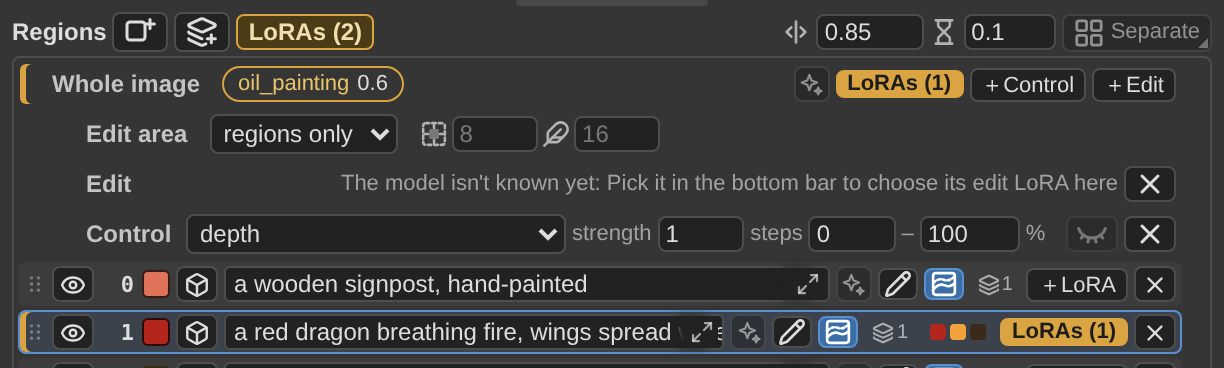
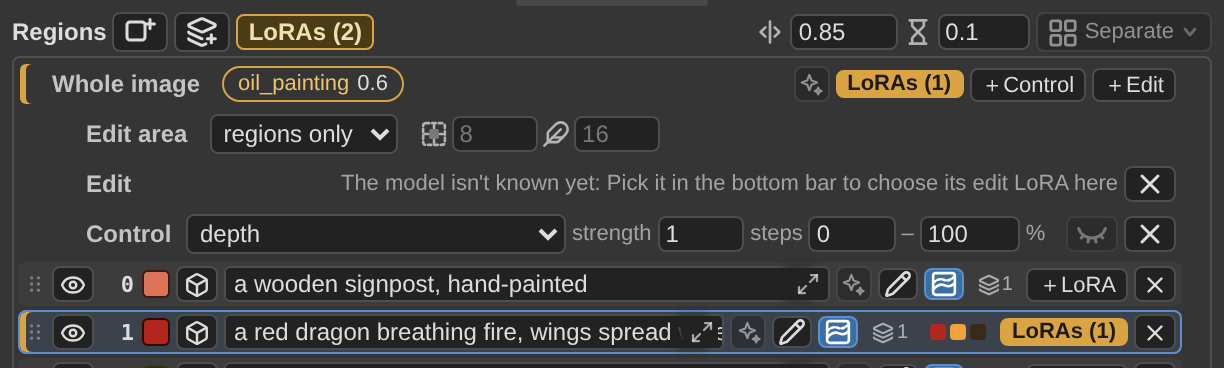
Rounds 99-100: translations, manual, changelog, handoff, hardware checklist, pictures, CLAUDE.md's kept words; version 0.60.0
The full checks for this commit are still running.

Claude-Session: https://claude.ai/code/session_01B5U1gpBZHxaHUVoHyaNrX1

Changed region(s): [[0.7141, 0.0299, 0.9935, 0.1495], [0.6209, 0.0299, 0.7141, 0.1495]]

diff --git a/docs/region-genie.md b/docs/region-genie.md
@@ -59,13 +59,17 @@ New here? The [quick start](../README.md#-quick-start) in the README gets a firs
   - `scene_prompt_positive` and `scene_prompt_negative` are the prompts; `positive`, `negative`, `latent` and `model` go to the sampler as always.
   - The size row sets the image size, and the **＋LoRA** button on *Whole image* adds LoRAs for the whole picture.
   - `prompt` is then your scene prompt as plain text (Ideogram 4: its caption JSON with no elements). Hiding every region (the eye buttons) does the same without deleting anything.
-- **An empty canvas** shows two cards. They hide while the pointer is on the canvas.
-  - **Start here: with regions** has three steps: pick a shape and drag a box (your first region), type its prompt (in the list, or double-click the middle of the region), connect and run.
+- **A canvas without regions** shows two cards, every time it has none. They hide while the pointer is on the canvas.
+  - **Start here: with regions** has three steps: drag a box (your first region; the Rectangle tool is already the active one), type its prompt (in the list, or double-click the middle of the region), connect and run. Three small lines under them name the ▢＋ button, the Large editor and the Separate button.
+  - **Arrows at the canvas's edge** point at the buttons the card names: *Shapes* and *Large editor* above the canvas, *Add a region* and *Separate* below it (in the large editor, beside it).
+  - While the cards show, the line of hints along the bottom edge is hidden.
+  - **Settings > Region Genie > Canvas tools > Start card on an empty canvas** turns the cards and their arrows off.
+- **The first tool:** a node without regions starts with the Rectangle tool, a node with regions with Select. Once you have picked a tool yourself on a node, it no longer changes by itself.
   - **Or without regions** says how to use the node for plain text-to-image: the two scene prompts, and LoRAs on *Whole image*.
 - **The line along the canvas's bottom edge** shows the keys and gestures of the tool in use (for the Rectangle: drag, Shift for equal sides, Alt from the centre).
   - It fades while the pointer is on the canvas (so it never covers what you work on), comes back when the pointer leaves, and shows for a few seconds when you switch tools.
   - The small **?** button in the canvas's lower right corner hides or shows the hints with one click (the same switch as in Settings).
-  - **Settings > Region Genie > Canvas tools > Hints on the canvas** turns it and the first steps off.
+  - **Settings > Region Genie > Canvas tools > Hints on the canvas** turns it off (the start cards have their own switch).
 - **Tooltips:** point at any button, field or switch for what it does. A shortcut is shown as a key next to the text.
 - **In-app help:** select the node and press **Node Info** in ComfyUI's toolbar (or the Info tab of the side panel) for a short guide with a numbered picture of the node. Every node of the pack has one.
 - **Small buttons are easier to hit:** a click just above, below or beside a small button, a row's grip still counts (the area is at least 24 px tall).
@@ -98,7 +102,7 @@ New here? The [quick start](../README.md#-quick-start) in the README gets a firs
   - In legacy node mode that is about 1186 px, with the sockets a new node shows.
   - In Nodes 2.0 ComfyUI shares the height between the scene prompt boxes and the editor, so the canvas starts wider than tall there.
   - Drag the node's corner to resize it, or use the large editor (the bar between the canvas and the list is described below).
-- **The large editor** (the button with two arrows, right of the labels button in the tool bar; or **Alt+Enter** while the pointer is over the editor): the same editor in a window that fills the ComfyUI page.
+- **The large editor** (the **Large** button near the right end of the tool bar, left of Clear all; or **Alt+Enter** while the pointer is over the editor): the same editor in a window that fills the ComfyUI page.
   - The tools stay in their row above the canvas, which takes the left; on the right are the size row, the scene prompts, the region list (with room for many regions) and the bottom bar.
   - It is the node's own editor moved there, so every tool, pop-up, shortcut and Ctrl+Z works as on the node, and nothing has to be saved or applied.
   - Close it with the button again, **✕**, the key, or **Esc** with nothing selected: the editor is back in the node as you left it.
@@ -470,7 +474,9 @@ The tools are the icons in the bar above the canvas. Point at one for its name a
 
 - **Snap** (the magnet button, highlighted when on; slashed magnet when off; or G) snaps drawing, moving and resizing to a grid set in image pixels. Arrow keys nudge (Shift ×10).
   - The grid's lines are drawn while snap is on.
-  - The magnet's ▾ (or a right-click on it) has the rest: **Show the grid without snapping** (Shift+G) and **Grid lines** (Faint, Normal, Strong; for every node).
+  - The magnet's ▾ (or a right-click on it) has the rest:
+    - **Grid size** in image pixels: a field (the grid on the canvas follows as you type; Enter closes the menu) and the sizes 8, 16, 32, 64 and 128 to click. The button's tooltip says the size in use.
+    - **Show the grid without snapping** (Shift+G) and **Grid lines** (Faint, Normal, Strong; for every node).
 - **View:** the image sits in a checkered margin.
   - Shapes can hang off the edge, and only the part inside the image is output.
   - The mouse wheel zooms, middle-drag or Space+drag pans, Fit (Home) resets the view, and Alt+wheel or `[` `]` changes brush size.
@@ -588,6 +594,7 @@ The details:
 ## Undo and redo
 
 - **Undo and redo:** Ctrl+Z and Ctrl+Shift+Z / Ctrl+Y work on the editor, not on the ComfyUI graph, while you're using the editor.
+- **The Undo and Redo buttons say what a click would change,** in their tooltips: "Undo: The prompt of region 2", "Undo: Moving layer "Rectangle 5" in front of or behind others", "Redo: Hiding region 1". A region is called by its number in the list, a layer by its name; a step that changed several things names two and adds "and more".
 - **Text is part of Undo.** Every visit to a text box (click in, type, click out) is one step of the editor's Undo, in order with drawing and everything else.
   - This covers the scene prompts, a region's prompt and its text to render, on the node, in the large editor and in the pop-up editors.
   - So after typing a prompt, clicking out and drawing a shape, Undo takes back the shape and then the whole prompt edit.

diff --git a/docs/CHANGELOG.md b/docs/CHANGELOG.md
@@ -2,12 +2,25 @@
 
 Each round is one request from the owner: what was asked, what was decided (and by whom), what was built and how it was tested. Later rounds sometimes reverse earlier ones; `docs/HANDOFF.md` section 4 has the current design. Test file names are the current ones (renamed by subject in round 24; e.g. `real_comfy12.cjs` is now `real_fields_popups.cjs`).
 
-## Round 98 (Nov 26): Image Compare, Large view: the size can be typed (0.59.1)
+## Round 100 (Nov 27): the start card on every empty canvas, with arrows; the Rectangle tool first; Separate's ▾; Undo / Redo say what they change (0.60.0)
+- Asked: a note about Separate on the start card (the shorter wording, then widened to "or not blending enough"); arrows at the canvas's edge to the buttons the card names, with the hint strip hidden meanwhile; the Rectangle tool as the first tool while there are no regions, unless the user picked one; the card whenever there are no regions, with a Setting; a ▾ on the Separate button for what its right-click opens; the Undo / Redo tooltips saying what a click would change, specifically, worded "Undo: …" / "Redo: …".
+- Found: the card already came back on an empty canvas, but only with "Hints on the canvas" on and with no layers left.
+- Built: `placeArrows` (each arrow on the edge nearest its button, clear of the canvas's corner buttons); Setting `startCard`; `setTool(t, auto)` and `E.toolPicked`; `sepMenu` behind the ▾; `stepDiff` / `stepWhat` in `regions.js` (the steps are unnamed snapshots: the words come from comparing two).
+- Not as asked: the card's line about the Large editor is not clickable (the card fades while the pointer is on the canvas, so a link in it can't be reached).
+- Tests changed: `ui_hints_notes.cjs` (no Select hints on an empty canvas; the card no longer goes with the hints Setting; two icons on Separate), `ui_settings_window.cjs` (8 rows on Canvas tools), `ui_review_items.cjs` (the Undo tooltip's new form).
+
+## Round 99 (Nov 27): the grid's size in the Snap menu; the Large button; Loop (0.60.0)
+- Asked: move the grid size field into the Snap button's menu (with common sizes; the size in the tooltip only); make the Large editor easier to find (the word "Large" on its button, right of the gap and left of Clear all; a line on the start card); Snap and Large as dark as the other buttons while off; the separator midway between Large and Clear all; Fit as tall as the other buttons; Image Compare's "Around the corner" renamed "Loop".
+- Built: a `custom` row kind in `rg_menu.js` (any element in the pack's menu; keys typed in a field of it stay the field's); `.rg-btn.toggle.solid`; `.rg-bar > .rg-btn { align-self:stretch }`.
+- Tests changed: `ui_region_opacity.cjs` (the grid menu starts with "Grid size"), `real_fields_popups.cjs` (4 number fields on a new node, was 5).
+- The version is 0.60.0 for rounds 97 to 100 (0.59.1 was never released).
+
+## Round 98 (Nov 26): Image Compare, Large view: the size can be typed (0.60.0)
 - Asked: control the zoom by the percentage the Large view shows; on the node it can be left out.
 - Built: the readout is a field: type a percent of the picture's own pixels and press Enter; the zoom is about the middle of the frame, and less than fitting gives the fit. Not on the node (it has no zoom of its own).
 - `real_smoke.cjs` (legacy) timed out a fourth time, now past 10 minutes, so "a slow model load" was the wrong diagnosis. Found: it only fails when the stand-in model file (1.75 GB) has dropped out of the machine's disk cache (106 s to load, then the first selection stalls); with the file cached the load takes 2 s and the whole check 40 s. `verify.py` now reads the file once before the checks that load it. The test's limit is back at 4 minutes.
 
-## Round 97 (Nov 26): the Whole image row's pop-up opens by its row (0.59.1)
+## Round 97 (Nov 26): the Whole image row's pop-up opens by its row (0.60.0)
 - Reported by the owner: the pop-up that the Whole image row's LoRAs button opens appeared near the top, above the canvas, not just above or below the row.
 - Found: that pop-up is the scene prompt's (on its LoRAs tab), and it was always placed by the scene prompt's text box, which is above the canvas. Reproduced in the real ComfyUI before the fix.
 - Fixed: opened from the row (the LoRAs button, a LoRA chip), it goes just below the row, or just above it when there is no room below, as a region's pop-up does with its row. Opened from the scene text box's own button it is by the text box as before.

diff --git a/CLAUDE.md b/CLAUDE.md
@@ -20,7 +20,7 @@ Read `docs/HANDOFF.md` before larger changes: it explains the code layout, the d
   - Say in the report what was left for after the confirmation. When it isn't clear whether a change is settled, ask the owner how they want to proceed.
 - Must work in ComfyUI's legacy node mode **and** Nodes 2.0, on a 4K high-DPR display.
 - Breaking saved workflows is acceptable, but keep them loading where it's cheap: `keepWidgetValuesByName`, add new inputs after existing ones, remap outputs by name, convert old data.
-- UI: compact header controls; icons with tooltips over words, except these words the owner kept: "▼ LoRAs", "▼ All", "Separate" (the keep-separate button), and every "LoRA"/"＋LoRA" label ("separation" and "until" became icons in round 48). Reuse existing icons; a button is never labelled with a character (✕, ↑ …): take a general-purpose icon from Lucide into `LUCIDE`, draw a pack-specific one into `ICONS`.
+- UI: compact header controls; icons with tooltips over words, except these words the owner kept: "▼ LoRAs", "▼ All", "Separate" (the keep-separate button), "Large" (the Large editor's button, round 99), "Fit", and every "LoRA"/"＋LoRA" label ("separation" and "until" became icons in round 48). Reuse existing icons; a button is never labelled with a character (✕, ↑ …): take a general-purpose icon from Lucide into `LUCIDE`, draw a pack-specific one into `ICONS`.
 - Scroll bars (a guideline, not a law): avoid them where it can be done, above all in small pop-ups and menus. Never a horizontal one where it can be helped (most mice can't scroll sideways). A vertical one can be right in some places: when a design decision would go one way or the other because of a scroll bar, ask the owner.
 - Colors: the pack's highlight color and its "switched on" color are the user's (Settings; `--rg-accent`, `--rg-on` and their shades, `applyPackColors()` in `js/rg_shared.js`): a style sheet takes them from the variables, never as a fixed blue or amber, and what is drawn on a canvas asks `accentColor()`.
 - Tooltips (node inputs / outputs, Settings, every editor control; set them the plain way, `el.title = "…"`): concise but complete. A shortcut is written in brackets at the end of its sentence with its default key, `(Ctrl+Z)`, `(V)`: the pack's tooltip shows it as a key, and `E.keyTitle(el, text)` / `keyed(text)` put the user's own key there. Every shortcut is a command in `COMMANDS` (`js/rg_keys.js`): the key handler asks `keyIs(e, id)`, never compares a key itself; hints and messages take the key from `keyText(id)`. Another node's keys are commands in the same list, with a `ctx` and a `group` of their own (Image Compare: `compare`, "Image Compare node"): the sheet shows the pack's shortcuts in one place, a section per node, and a key is only taken from a command of the same `ctx`, so two nodes may use the same key. Such keys act only while the pointer is over their node. A key that can't be changed (a mouse gesture, Image Compare's 1 to 9) is a row in `FIXED`. A tooltip that explains several things (options, states, outputs) puts each on its own line (`name: Description.`). Every sentence starts with a capital letter, also after a ":", unless its first word is a lowercase field / option name (`sidecar .json: The workflow …`). `tests/tooltip_rules.cjs` has the rules; `tests/real_tooltips.cjs [vue]` checks every tooltip.

diff --git a/docs/HANDOFF.md b/docs/HANDOFF.md
@@ -401,6 +401,13 @@ The owner's choices on the six items left from the round-33 review (see the chan
 
 ## 6. How it was tested (for the next session)
 
+**Rounds 99-100:**
+- Toolbar: the grid's size is in the Snap button's menu (`gridMenu` in `toolbar.js`; `rg_menu.js` takes `{ custom: element }` rows); the Large editor's button says "Large" and sits between the gap and Clear all (`E.barEndSep`); `.solid` toggles are not dimmed while off.
+- Start card (`canvasUi.js`): shown whenever there are no regions and Setting `startCard` is on (no longer tied to `toolHints`); `placeArrows()` puts one arrow per named button on the canvas edge nearest it, clear of `.rg-imgmode` / `.rg-tips-btn`; the hint strip is hidden while the card shows. The card takes no clicks and fades under the pointer, so nothing in it can be a link.
+- First tool: `setTool(t, auto)`; a call without `auto` sets `E.toolPicked`. `load()` picks the Rectangle tool for a state without regions, Select otherwise, unless `E.toolPicked`.
+- Undo / Redo tooltips: `E.stepWhat()` (cached by stack lengths, `E.version`, `E.textDirty`) compares the top snapshot with the current state (`stepDiff(a, b, now)`); `render.js` sets the titles. A new kind of state needs a line in `stepDiff`, else it reads "A change to the node".
+- The Separate button's ▾: a click on `.rg-grp-dd` is caught in the capture phase and opens `sepMenu`.
+
 **Round 97:** `editScene(which, at, tab, fromRow)`: opened from the Whole image row (`openSceneLoras` in `llm.js`) the pop-up is placed by `.rg-row.scene`, else by the scene text box (in the large editor: left of its scene box). `tests/real_scene_popup_place.cjs`.
 
 **Round 93:**

diff --git a/docs/HARDWARE-CHECKLIST.md b/docs/HARDWARE-CHECKLIST.md
@@ -322,3 +322,11 @@ Nothing here has run on a real model yet.
 - [ ] Image Compare, Large view with real pictures: the wheel's zoom speed feels right; zooming out stops at the whole picture; a drag moves it; at high zoom single pixels are sharp; the percent readout is right for a picture you know the size of
 - [ ] Image Compare: number keys and arrows with the pointer on the node's title and on its input names
 - [ ] Image Compare (round 96): a middle-button drag over the node's picture, its numbers and its title moves the graph as over the empty graph; no autoscroll circle appears (Firefox, Windows)
+
+## Rounds 99-100: toolbar, start card, tooltips
+- [ ] The Snap button's ▾: the grid size field takes the cursor, typing changes the grid behind the menu, the wheel steps it, Enter closes; the five sizes are easy to hit on the 4K display (and in Firefox)
+- [ ] An empty canvas: the four arrows point at their buttons at your usual node sizes and graph zooms, in the node and in the large editor (there *Add a region* and *Separate* should point sideways at the list)
+- [ ] A new node starts with the Rectangle tool; a loaded workflow with regions with Select; after picking any tool, Clear all does not change the tool
+- [ ] The Undo / Redo tooltips read right after your usual steps (drawing, moving, prompts, LoRAs); say which steps only read "A change to the node"
+- [ ] The Separate button's ▾ is easy to hit next to the word, and a click on the word still switches Separate
+

diff --git a/docs/regional-loras.md b/docs/regional-loras.md
@@ -32,7 +32,7 @@ Everything happens in one model pass:
   - The caption part needs `clip` and the prompt to be exactly the text `positive` encodes (the `positive` output, or the same text encoded yourself). Otherwise the LoRAs act on the image only and the console says so.
 - Each LoRA region's caption is kept separate in attention from the other regions' image and captions at every step, so one region's LoRA-changed caption and trigger words can't restyle the rest.
   - Shared text (scene prompt, regions without LoRAs) stays open to all.
-- **Keep all regions separate** (the **Separate** button with four tiles, at the right end of the list header; automatic by default):
+- **Keep all regions separate** (the **Separate** button with four tiles, at the right end of the list header; automatic by default; its small ▾, or a right-click, opens its choices):
   - Automatic: it turns on by itself with the models without a layout format, and is off with the others.
   - On: every region, with or without LoRAs, is kept separate from the others and from the background for the first part of sampling ('until') at the separation strength, and each region's caption speaks only to its own region.
   - Off: only regions with LoRAs are.

diff --git a/README.md b/README.md
@@ -1,6 +1,6 @@
 # Region Genie ✨
 
-![Version](https://img.shields.io/badge/version-0.59.1-8f73d6)
+![Version](https://img.shields.io/badge/version-0.60.0-8f73d6)
 ![License](https://img.shields.io/badge/license-GPL--3.0-blue)
 ![ComfyUI](https://img.shields.io/badge/ComfyUI-custom%20nodes-2f9e8f)
 
